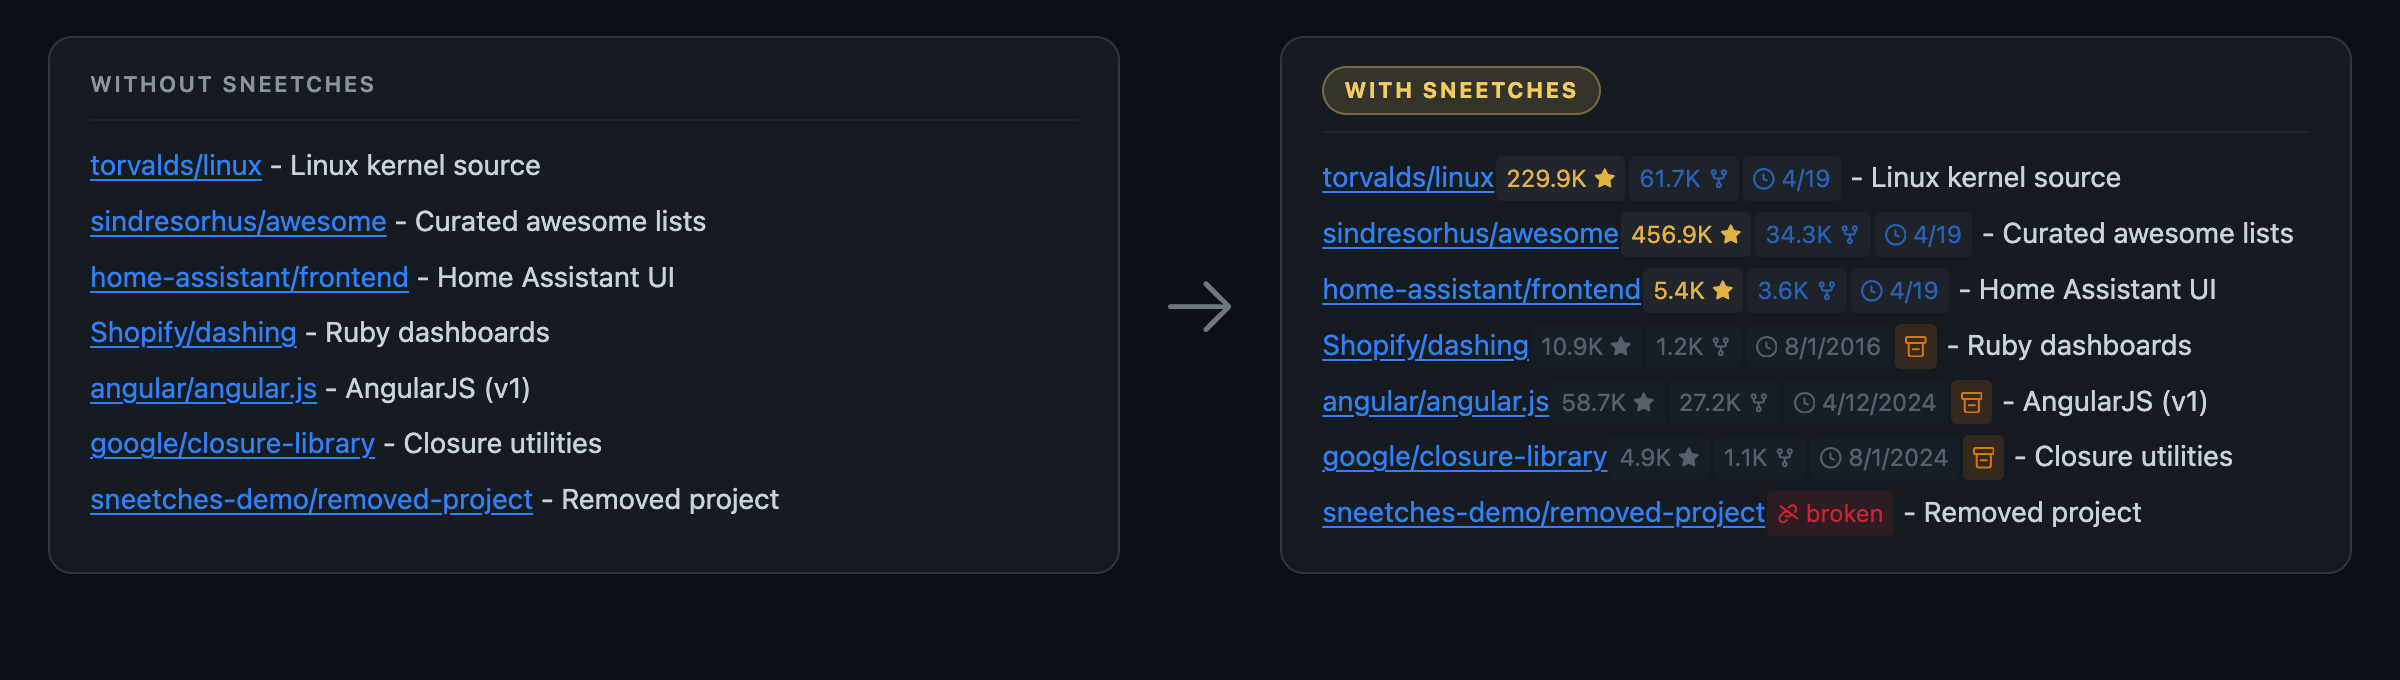
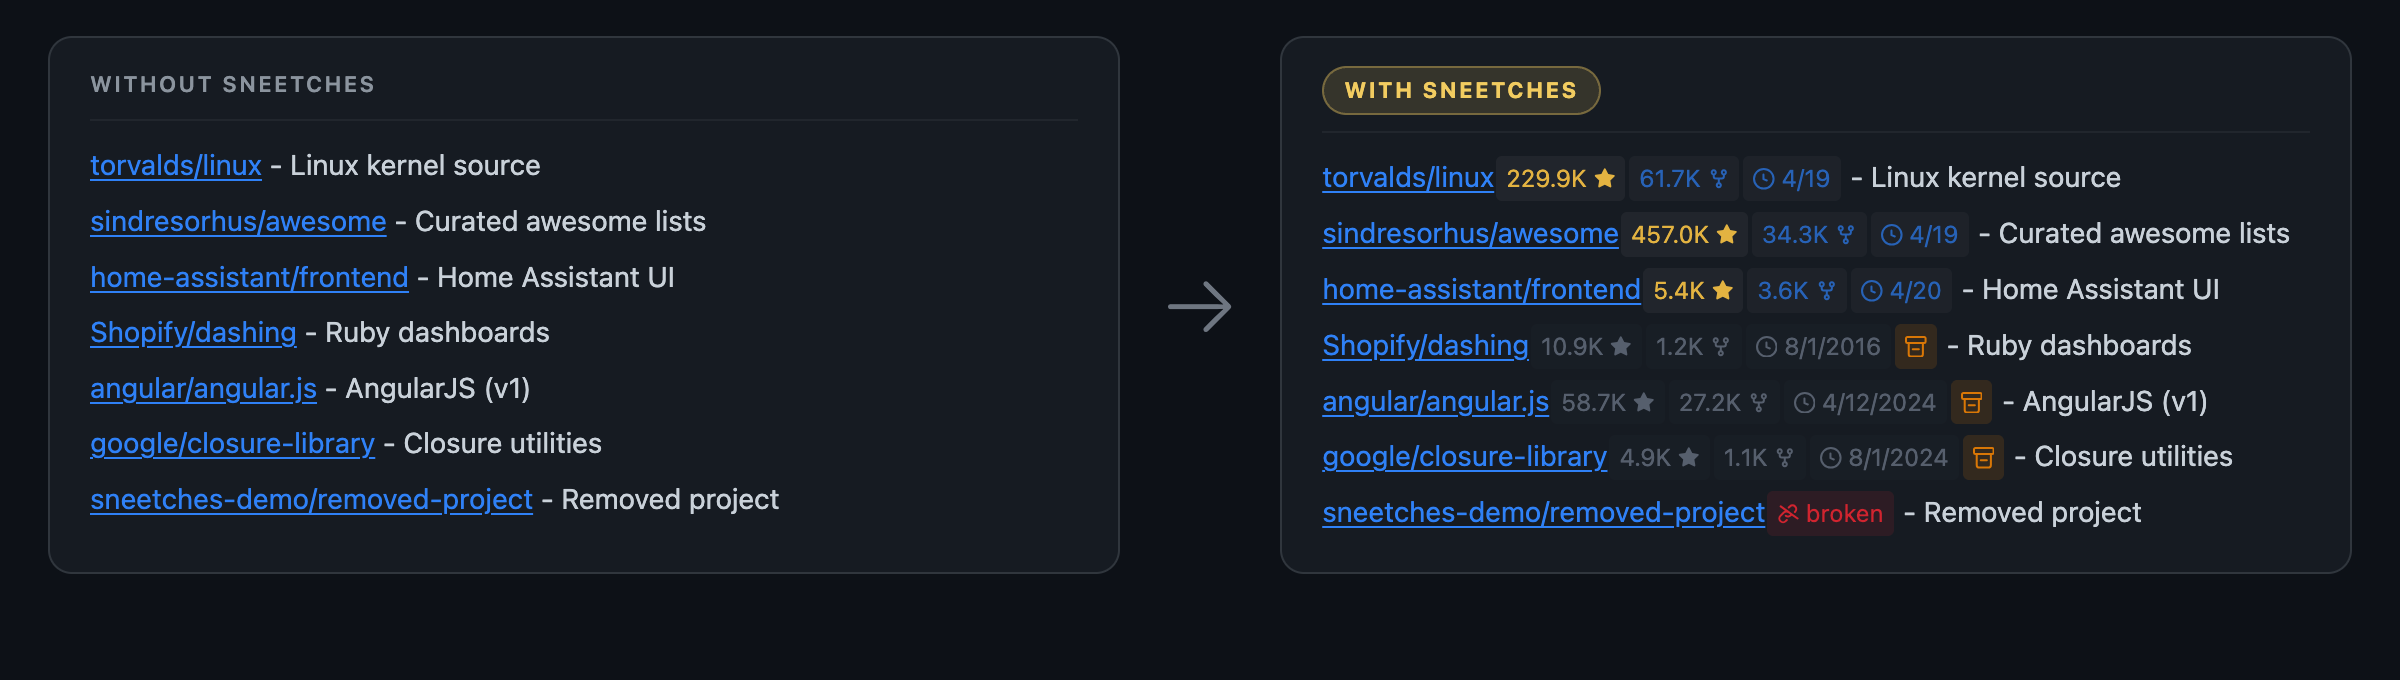
1.2.0: add Chrome Web Store assets — main 1280x800 + small/marquee promo tiles
- assets/cws-screenshot.png (1280x800) — main CWS screenshot. Brand
  header (logo + wordmark + tagline) on top, WITHOUT/WITH comparison
  panels below (full chip variety: 3 archived + 1 broken)
- assets/cws-promo-small.png (440x280) — pure branding, no chips
- assets/cws-promo-marquee.png (1400x560) — brand on left, sample
  decorated repo rows on right
- All three are 24-bit RGB PNG with no alpha. CWS rejects 32-bit
  RGBA PNGs (even fully-opaque ones), so capture.mjs now routes PNG
  output through `sips -s format png` for entries that opt in with
  `stripAlpha: true`. macOS-only path, but this is a dev-time tool
- capture.mjs also gains a JPEG output mode (type: 'jpeg') and a
  skipArchivedWait flag (used by the small promo since it has no
  chips, no need to wait)
- 3 new HTML sources in scripts/screenshots/ — same dark-theme
  styling as the existing comparison/social-preview pages
- comparison.png + social-preview.png also refreshed by the same
  npm run screenshots pass (live GitHub data, e.g. dates rolled
  over to today)

Changed region(s): [[0.6875, 0.3088, 0.9688, 0.3706], [0.7812, 0.4015, 0.9375, 0.4632]]

diff --git a/scripts/screenshots/cws-screenshot.html b/scripts/screenshots/cws-screenshot.html
@@ -1,0 +1,150 @@
+<!doctype html>
+<html lang="en">
+<head>
+<meta charset="utf-8">
+<title>Sneetches — Chrome Web Store screenshot 1280x800</title>
+<style>
+  :root { color-scheme: dark; }
+  html, body {
+    margin: 0; padding: 0;
+    background: #0d1117;
+    color: #c9d1d9;
+    font-family: -apple-system, BlinkMacSystemFont, "Segoe UI", Helvetica, Arial, sans-serif;
+    font-size: 14px;
+    line-height: 1.6;
+  }
+  body {
+    min-height: 100vh;
+    display: flex;
+    flex-direction: column;
+    align-items: center;
+    justify-content: center;
+    padding: 36px 32px;
+    box-sizing: border-box;
+  }
+  .brand-stack {
+    display: flex;
+    flex-direction: column;
+    align-items: center;
+    gap: 8px;
+    margin-bottom: 32px;
+  }
+  .brand {
+    display: flex;
+    align-items: center;
+    gap: 16px;
+  }
+  .logo { width: 60px; height: 60px; flex-shrink: 0; }
+  .wordmark {
+    font-size: 48px;
+    font-weight: 700;
+    color: #e6edf3;
+    line-height: 1;
+    letter-spacing: -0.02em;
+  }
+  .tagline {
+    font-size: 17px;
+    color: #8b949e;
+  }
+  .page {
+    width: 100%;
+    display: grid;
+    grid-template-columns: 1fr auto 1fr;
+    gap: 20px;
+    align-items: stretch;
+    box-sizing: border-box;
+  }
+  .panel {
+    background: #161b22;
+    border: 1px solid #30363d;
+    border-radius: 12px;
+    padding: 16px 22px;
+  }
+  .panel h2 {
+    font-size: 11px;
+    font-weight: 600;
+    text-transform: uppercase;
+    letter-spacing: 0.1em;
+    color: #8b949e;
+    margin: 0 0 12px;
+    padding-bottom: 10px;
+    border-bottom: 1px solid #21262d;
+  }
+  .panel h2 .hl {
+    display: inline-block;
+    background: rgba(242, 204, 96, 0.14);
+    color: #f2cc60;
+    border: 1px solid rgba(242, 204, 96, 0.35);
+    padding: 2px 10px;
+    border-radius: 999px;
+    font-weight: 700;
+  }
+  .arrow {
+    font-size: 44px;
+    color: #6e7681;
+    font-weight: 200;
+    align-self: center;
+    user-select: none;
+    line-height: 1;
+  }
+  ul { list-style: none; padding: 0; margin: 0; }
+  li { margin: 6px 0; color: #c9d1d9; }
+  a {
+    color: #2f81f7;
+    text-decoration: underline;
+    text-underline-offset: 2px;
+  }
+  a:visited { color: #2f81f7; }
+</style>
+</head>
+<body>
+  <div class="brand-stack">
+    <div class="brand">
+      <svg class="logo" viewBox="0 0 64 64" xmlns="http://www.w3.org/2000/svg" fill="none">
+        <g stroke-linejoin="round" stroke-linecap="round" stroke-width="2.8" fill="none">
+          <path d="M12.5 9 L14.5 14 L19.5 14 L15.5 17.2 L17 22 L12.5 19 L8 22 L9.5 17.2 L5.5 14 L10.5 14 Z" stroke="#a78bfa"/>
+          <path d="M32 6 L34 11 L39 11 L35 14.2 L36.5 19 L32 16 L27.5 19 L29 14.2 L25 11 L30 11 Z" stroke="#5b8def"/>
+          <path d="M51.5 11 L53.5 16 L58.5 16 L54.5 19.2 L56 24 L51.5 21 L47 24 L48.5 19.2 L44.5 16 L49.5 16 Z" stroke="#fb923c"/>
+          <path d="M9 30 L11 35 L16 35 L12 38.2 L13.5 43 L9 40 L4.5 43 L6 38.2 L2 35 L7 35 Z" stroke="#4ade80"/>
+          <path d="M32 28 L34 33 L39 33 L35 36.2 L36.5 41 L32 38 L27.5 41 L29 36.2 L25 33 L30 33 Z" stroke="#facc15"/>
+          <path d="M55 32 L57 37 L62 37 L58 40.2 L59.5 45 L55 42 L50.5 45 L52 40.2 L48 37 L53 37 Z" stroke="#f87171"/>
+          <path d="M16 50 L18 55 L23 55 L19 58.2 L20.5 63 L16 60 L11.5 63 L13 58.2 L9 55 L14 55 Z" stroke="#5eead4"/>
+          <path d="M46 49 L48 54 L53 54 L49 57.2 L50.5 62 L46 59 L41.5 62 L43 57.2 L39 54 L44 54 Z" stroke="#f472b6"/>
+        </g>
+      </svg>
+      <div class="wordmark">Sneetches</div>
+    </div>
+    <div class="tagline">GitHub repo stats, inline, on any webpage</div>
+  </div>
+
+  <div class="page">
+    <section class="panel">
+      <h2>Without Sneetches</h2>
+      <ul>
+        <li><a href="https://github.com/torvalds/linux"><span>torvalds/linux</span></a> - Linux kernel source</li>
+        <li><a href="https://github.com/sindresorhus/awesome"><span>sindresorhus/awesome</span></a> - Curated awesome lists</li>
+        <li><a href="https://github.com/home-assistant/frontend"><span>home-assistant/frontend</span></a> - Home Assistant UI</li>
+        <li><a href="https://github.com/Shopify/dashing"><span>Shopify/dashing</span></a> - Ruby dashboards</li>
+        <li><a href="https://github.com/angular/angular.js"><span>angular/angular.js</span></a> - AngularJS (v1)</li>
+        <li><a href="https://github.com/google/closure-library"><span>google/closure-library</span></a> - Closure utilities</li>
+        <li><a href="https://github.com/sneetches-demo/removed-project"><span>sneetches-demo/removed-project</span></a> - Removed project</li>
+      </ul>
+    </section>
+
+    <div class="arrow">&rarr;</div>
+
+    <section class="panel">
+      <h2><span class="hl">With Sneetches</span></h2>
+      <ul>
+        <li><a href="https://github.com/torvalds/linux">torvalds/linux</a> - Linux kernel source</li>
+        <li><a href="https://github.com/sindresorhus/awesome">sindresorhus/awesome</a> - Curated awesome lists</li>
+        <li><a href="https://github.com/home-assistant/frontend">home-assistant/frontend</a> - Home Assistant UI</li>
+        <li><a href="https://github.com/Shopify/dashing">Shopify/dashing</a> - Ruby dashboards</li>
+        <li><a href="https://github.com/angular/angular.js">angular/angular.js</a> - AngularJS (v1)</li>
+        <li><a href="https://github.com/google/closure-library">google/closure-library</a> - Closure utilities</li>
+        <li><a href="https://github.com/sneetches-demo/removed-project">sneetches-demo/removed-project</a> - Removed project</li>
+      </ul>
+    </section>
+  </div>
+</body>
+</html>

diff --git a/scripts/screenshots/cws-promo-marquee.html b/scripts/screenshots/cws-promo-marquee.html
@@ -1,0 +1,94 @@
+<!doctype html>
+<html lang="en">
+<head>
+<meta charset="utf-8">
+<title>Sneetches — marquee promo tile 1400x560</title>
+<style>
+  :root { color-scheme: dark; }
+  html, body {
+    margin: 0; padding: 0;
+    background: #0d1117;
+    color: #c9d1d9;
+    font-family: -apple-system, BlinkMacSystemFont, "Segoe UI", Helvetica, Arial, sans-serif;
+    font-size: 18px;
+    line-height: 1.7;
+  }
+  body {
+    min-height: 100vh;
+    display: grid;
+    grid-template-columns: 1fr 1fr;
+    align-items: center;
+    padding: 50px 80px;
+    box-sizing: border-box;
+    column-gap: 60px;
+  }
+  .brand-stack {
+    display: flex;
+    flex-direction: column;
+    align-items: flex-start;
+    gap: 14px;
+  }
+  .brand {
+    display: flex;
+    align-items: center;
+    gap: 22px;
+  }
+  .logo { width: 96px; height: 96px; flex-shrink: 0; }
+  .wordmark {
+    font-size: 76px;
+    font-weight: 700;
+    color: #e6edf3;
+    line-height: 1;
+    letter-spacing: -0.02em;
+  }
+  .tagline {
+    font-size: 22px;
+    color: #8b949e;
+    max-width: 520px;
+  }
+  ul.sample {
+    list-style: none;
+    padding: 0;
+    margin: 0;
+  }
+  ul.sample li {
+    margin: 8px 0;
+    color: #c9d1d9;
+  }
+  ul.sample a {
+    color: #2f81f7;
+    text-decoration: underline;
+    text-underline-offset: 2px;
+  }
+  ul.sample a:visited { color: #2f81f7; }
+</style>
+</head>
+<body>
+  <div class="brand-stack">
+    <div class="brand">
+      <svg class="logo" viewBox="0 0 64 64" xmlns="http://www.w3.org/2000/svg" fill="none">
+        <g stroke-linejoin="round" stroke-linecap="round" stroke-width="2.4" fill="none">
+          <path d="M12.5 9 L14.5 14 L19.5 14 L15.5 17.2 L17 22 L12.5 19 L8 22 L9.5 17.2 L5.5 14 L10.5 14 Z" stroke="#a78bfa"/>
+          <path d="M32 6 L34 11 L39 11 L35 14.2 L36.5 19 L32 16 L27.5 19 L29 14.2 L25 11 L30 11 Z" stroke="#5b8def"/>
+          <path d="M51.5 11 L53.5 16 L58.5 16 L54.5 19.2 L56 24 L51.5 21 L47 24 L48.5 19.2 L44.5 16 L49.5 16 Z" stroke="#fb923c"/>
+          <path d="M9 30 L11 35 L16 35 L12 38.2 L13.5 43 L9 40 L4.5 43 L6 38.2 L2 35 L7 35 Z" stroke="#4ade80"/>
+          <path d="M32 28 L34 33 L39 33 L35 36.2 L36.5 41 L32 38 L27.5 41 L29 36.2 L25 33 L30 33 Z" stroke="#facc15"/>
+          <path d="M55 32 L57 37 L62 37 L58 40.2 L59.5 45 L55 42 L50.5 45 L52 40.2 L48 37 L53 37 Z" stroke="#f87171"/>
+          <path d="M16 50 L18 55 L23 55 L19 58.2 L20.5 63 L16 60 L11.5 63 L13 58.2 L9 55 L14 55 Z" stroke="#5eead4"/>
+          <path d="M46 49 L48 54 L53 54 L49 57.2 L50.5 62 L46 59 L41.5 62 L43 57.2 L39 54 L44 54 Z" stroke="#f472b6"/>
+        </g>
+      </svg>
+      <div class="wordmark">Sneetches</div>
+    </div>
+    <div class="tagline">GitHub repo stats, inline, on any webpage</div>
+  </div>
+
+  <ul class="sample">
+    <li><a href="https://github.com/torvalds/linux">torvalds/linux</a> - Linux kernel</li>
+    <li><a href="https://github.com/sindresorhus/awesome">sindresorhus/awesome</a> - Curated lists</li>
+    <li><a href="https://github.com/Shopify/dashing">Shopify/dashing</a> - Ruby dashboards</li>
+    <li><a href="https://github.com/angular/angular.js">angular/angular.js</a> - AngularJS (v1)</li>
+    <li><a href="https://github.com/sneetches-demo/removed-project">sneetches-demo/removed-project</a> - Removed</li>
+  </ul>
+</body>
+</html>

diff --git a/scripts/screenshots/cws-promo-small.html b/scripts/screenshots/cws-promo-small.html
@@ -1,0 +1,65 @@
+<!doctype html>
+<html lang="en">
+<head>
+<meta charset="utf-8">
+<title>Sneetches — small promo tile 440x280</title>
+<style>
+  :root { color-scheme: dark; }
+  html, body {
+    margin: 0; padding: 0;
+    background: #0d1117;
+    color: #c9d1d9;
+    font-family: -apple-system, BlinkMacSystemFont, "Segoe UI", Helvetica, Arial, sans-serif;
+  }
+  body {
+    min-height: 100vh;
+    display: flex;
+    align-items: center;
+    justify-content: center;
+  }
+  .stack {
+    display: flex;
+    flex-direction: column;
+    align-items: center;
+    gap: 6px;
+  }
+  .brand {
+    display: flex;
+    align-items: center;
+    gap: 12px;
+  }
+  .logo { width: 50px; height: 50px; flex-shrink: 0; }
+  .wordmark {
+    font-size: 36px;
+    font-weight: 700;
+    color: #e6edf3;
+    line-height: 1;
+    letter-spacing: -0.02em;
+  }
+  .tagline {
+    font-size: 13px;
+    color: #8b949e;
+  }
+</style>
+</head>
+<body>
+  <div class="stack">
+    <div class="brand">
+      <svg class="logo" viewBox="0 0 64 64" xmlns="http://www.w3.org/2000/svg" fill="none">
+        <g stroke-linejoin="round" stroke-linecap="round" stroke-width="2.8" fill="none">
+          <path d="M12.5 9 L14.5 14 L19.5 14 L15.5 17.2 L17 22 L12.5 19 L8 22 L9.5 17.2 L5.5 14 L10.5 14 Z" stroke="#a78bfa"/>
+          <path d="M32 6 L34 11 L39 11 L35 14.2 L36.5 19 L32 16 L27.5 19 L29 14.2 L25 11 L30 11 Z" stroke="#5b8def"/>
+          <path d="M51.5 11 L53.5 16 L58.5 16 L54.5 19.2 L56 24 L51.5 21 L47 24 L48.5 19.2 L44.5 16 L49.5 16 Z" stroke="#fb923c"/>
+          <path d="M9 30 L11 35 L16 35 L12 38.2 L13.5 43 L9 40 L4.5 43 L6 38.2 L2 35 L7 35 Z" stroke="#4ade80"/>
+          <path d="M32 28 L34 33 L39 33 L35 36.2 L36.5 41 L32 38 L27.5 41 L29 36.2 L25 33 L30 33 Z" stroke="#facc15"/>
+          <path d="M55 32 L57 37 L62 37 L58 40.2 L59.5 45 L55 42 L50.5 45 L52 40.2 L48 37 L53 37 Z" stroke="#f87171"/>
+          <path d="M16 50 L18 55 L23 55 L19 58.2 L20.5 63 L16 60 L11.5 63 L13 58.2 L9 55 L14 55 Z" stroke="#5eead4"/>
+          <path d="M46 49 L48 54 L53 54 L49 57.2 L50.5 62 L46 59 L41.5 62 L43 57.2 L39 54 L44 54 Z" stroke="#f472b6"/>
+        </g>
+      </svg>
+      <div class="wordmark">Sneetches</div>
+    </div>
+    <div class="tagline">GitHub repo stats, inline, on any webpage</div>
+  </div>
+</body>
+</html>
